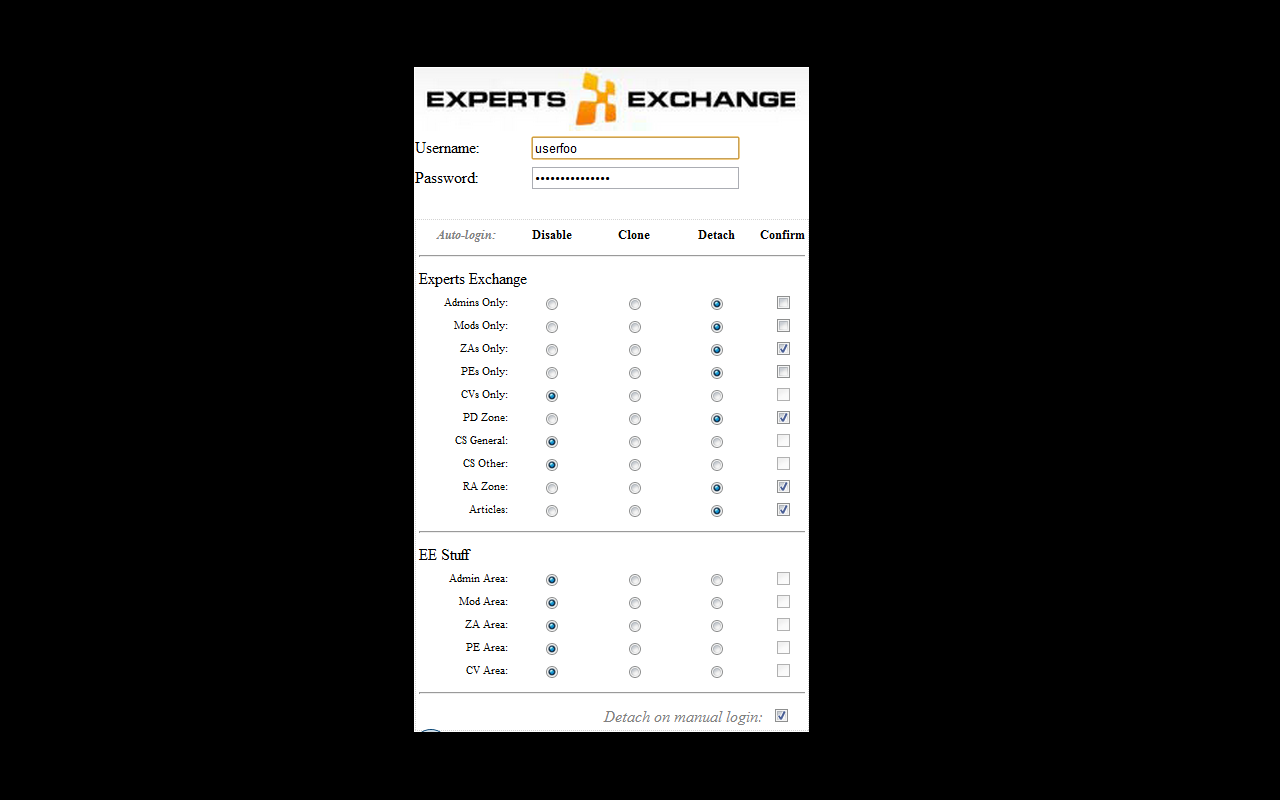
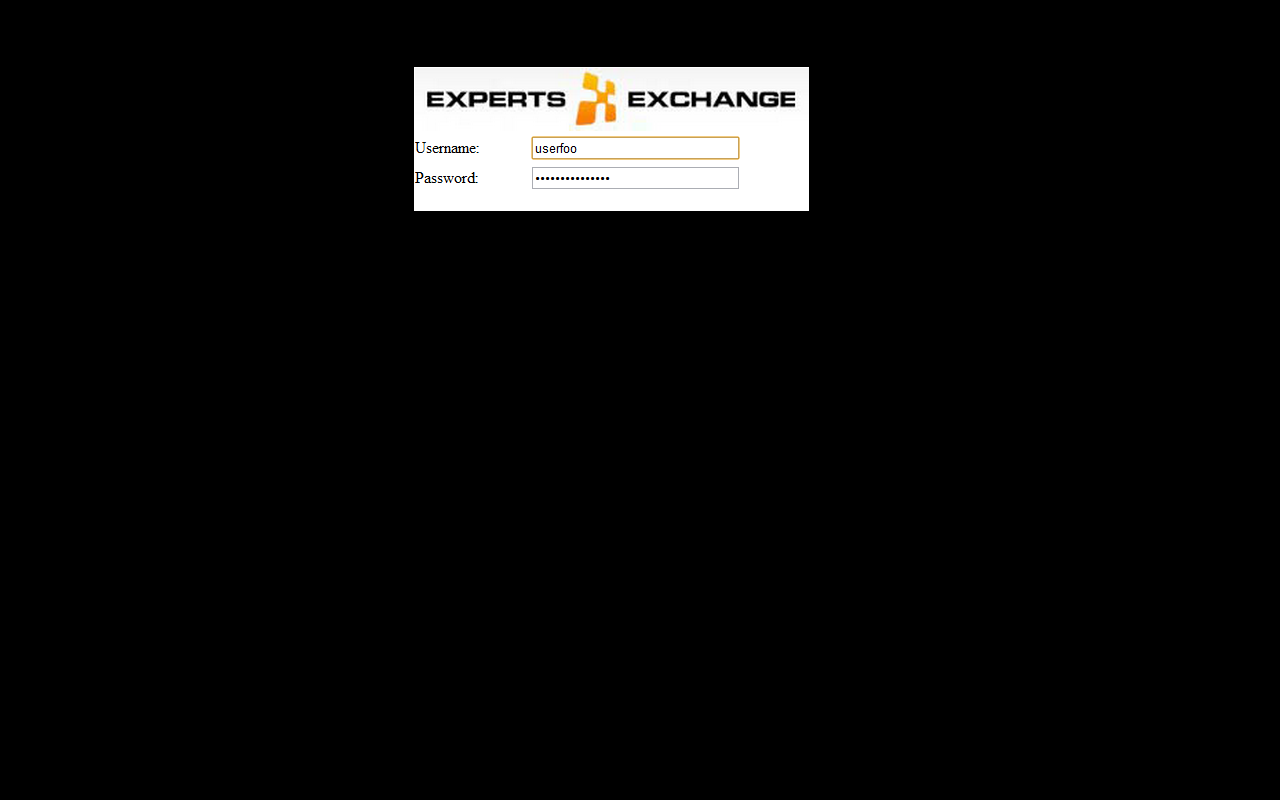
Update for EEv10 plus https

Changed region(s): [[0.3125, 0.25, 0.6562, 0.9375]]

diff --git a/EE Login/options.js b/EE Login/options.js
@@ -1,61 +1,3 @@
-function radio_click_handler(name)
-{
-   var rds = document.getElementsByName(name);
-   var cbname = name + '_cb';
-   var cb = document.getElementById(cbname);
-
-   cb.disabled = rds[0].checked;
-}
-
-function save_radio(name) {
-   var rds = document.getElementsByName(name);
-   var res = 0;
-
-   for(var i = 0 ; i < rds.length ; ++i) {
-      if(rds[i].checked) {
-         res = i;
-      }
-   }
-
-   localStorage[name] = res;
-}
-
-function load_radio(name) {
-   var rds = document.getElementsByName(name);
-
-   if(localStorage["username"])
-   {
-      for(var i = 0 ; i < rds.length ; ++i) {
-         rds[i].checked = (i == localStorage[name]);
-      }
-   }
-   else
-   {
-      rds[0].checked = true;
-   }
-}
-
-function save_cb(name) {
-   var name = name + '_cb';
-   var cb = document.getElementById(name);
-   localStorage[name] = cb.checked?1:0;
-}
-
-function load_cb(name) {
-   var cbname = name + '_cb';
-   var cb = document.getElementById(cbname);
-
-   if(localStorage["username"])
-   {
-      cb.checked = (1 == localStorage[cbname]);
-   }
-   else
-   {
-      cb.checked = false;
-   }
-
-   radio_click_handler(name);
-}
 
 function save_options() {
 
@@ -68,23 +10,11 @@ function save_options() {
    }
    else
    {
-      localStorage["username"] = username;
-      localStorage["password"] = password;
-
-      for(section in re)
-      {
-         for(key in re[section]['regex'][1])
-         {
-            save_radio(key);
-            save_cb(key);
-         }
-      }
-
-      localStorage["detonman"] = document.getElementById("detonman").checked;
-
       // Update status to let user know options were saved.
       var status = document.getElementById("status");
       status.innerHTML = "Saving...";
+      localStorage["username"] = username;
+      localStorage["password"] = password;
       setTimeout(function() {
          status.innerHTML = "";
       }, 750);
@@ -97,53 +27,13 @@ function restore_options() {
    {
       document.getElementById("username").value = localStorage["username"];
       document.getElementById("password").value = localStorage["password"];
-
-
-      document.getElementById("detonman").checked = localStorage["detonman"] == "true";
-   }
-
-   for(section in re)
-   {
-      for(key in re[section]['regex'][1])
-      {
-         load_radio(key);
-         load_cb(key);
-      }
    }
 }
 
-function wl (line)
-{
-   document.write(line);
-}
+document.addEventListener('DOMContentLoaded', function () {
+  document.querySelector('button').addEventListener('click', save_options);
+});
 
-String.prototype.supplant = function (o)
-{
-   return this.replace(/{([^{}]*)}/g,
-         function (a, b) {
-            var r = o[b];
-            return typeof r === 'string' || typeof r === 'number' ? r : a;
-         });
-};
-
-function generate_opts_table()
-{
-   for(section in re)
-   {
-      wl('<tr> <td colspan="5">{section}</td></tr>'.supplant({'section': re[section]['name']}));
-      for(key in re[section]['regex'][1])
-      {
-         wl('<tr> \
-               <td class="hzones"><label class="zones" for= \
-               "{key}">{name}:</label></td> \
-               <td class="zones"><input onclick="radio_click_handler(\'{key}\')" type="radio" name="{key}"></td> \
-               <td class="zones"><input onclick="radio_click_handler(\'{key}\')"  type="radio" name="{key}"></td> \
-               <td class="zones"><input onclick="radio_click_handler(\'{key}\')"  type="radio" name="{key}"></td> \
-               <td class="zones"><input type="checkbox" id="{key}_cb"></td> \
-               </tr>'.supplant({'key': key, 'name': re[section]['regex'][1][key][0]}));
-      }
-
-      wl('<tr> <td colspan="5"><hr></td></tr>');
-   }
-}
-
+document.addEventListener('DOMContentLoaded', function () {
+  restore_options();
+});

diff --git a/EE Login/background.js b/EE Login/background.js
@@ -1,15 +1,15 @@
-chrome.tabs.onUpdated.addListener(onUpdate_handler);
 chrome.pageAction.onClicked.addListener(onClick_handler);
+chrome.tabs.onUpdated.addListener(onUpdate_handler);
 
 function get_redirect_url(tab)
 {
    var url;
 
-   if(re['ee']['regex'][0].test(tab.url))
+   if(re['ee']['regex'].test(tab.url))
    {
       url = "https://secure.experts-exchange.com/login.jsp";
    }
-   else if(re['es']['regex'][0].test(tab.url))
+   else if(re['es']['regex'].test(tab.url))
    {
       url = " http://ee-stuff.com/login.php";
    }
@@ -24,7 +24,7 @@ function get_redirect_url(tab)
    return url;
 }
 
-function handle_login(tab, detach, ask)
+function handle_login(tab)
 {
    if(!localStorage["username"])
    {
@@ -33,35 +33,17 @@ function handle_login(tab, detach, ask)
       return;
    }
 
-   if(ask ? confirm("Go incognito") : true)
-   {
       var url = get_redirect_url(tab);
 
-      if(url)
-      {
-         chrome.windows.create( {
-            'url': url,
-            'incognito': true
-         });
+   if(url)
+   {
+      chrome.windows.create( {
+         'url': url,
+         'incognito': true
+      });
 
-         if(detach)
-         {
-            chrome.tabs.remove(tab.id);
-         }
-      }
+      chrome.tabs.remove(tab.id);
    }
-}
-
-function zone_handler(section, key, tab) {
-   var ret = false
-
-      if(localStorage[key] > 0 && re[section]['regex'][1][key][1].test(tab.url))
-      {
-         handle_login(tab, (localStorage[key] == 2), (localStorage[key + '_cb'] == 1));
-         ret = true;
-      }
-
-   return ret;
 }
 
 function onUpdate_handler(tabId, changeInfo, tab) {
@@ -73,29 +55,13 @@ function onUpdate_handler(tabId, changeInfo, tab) {
 
       } else {
 
-         var section;
-
-         if(re['ee']['regex'][0].test(tab.url)) {
+         if(re['ee']['regex'].test(tab.url)) {
 
             chrome.pageAction.show(tabId);
-            section = 'ee';
          }
-         else if(re['es']['regex'][0].test(tab.url)) {
+         else if(re['es']['regex'].test(tab.url)) {
 
             chrome.pageAction.show(tabId);
-            section = 'es';
-         }
-         else
-         {
-            return;
-         }
-
-         for(key in re[section]['regex'][1])
-         {
-            if(zone_handler(section, key, tab))
-            {
-               break;
-            }
          }
       }
    }
@@ -105,4 +71,3 @@ function onClick_handler(tab) {
 
    handle_login(tab, localStorage["detonman"] == "true");
 }
-

diff --git a/EE Login/data.js b/EE Login/data.js
@@ -1,28 +1,13 @@
 var re =
 {
-   'ee': { 'name': 'Experts Exchange', 'regex': [
-      /^http:\/\/[^.]+\.experts-exchange\.com\//,
-      {
-         'eead': [ 'Admins&nbsp;Only', /^http:\/\/[^.]+\.experts-exchange\.com\/Community_Support\/Hidden\/Admin_Only\// ],
-         'eemd': [ 'Mods&nbsp;Only', /^http:\/\/[^.]+\.experts-exchange\.com\/Community_Support\/Hidden\/Mods_Only\// ],
-         'eeza': [ 'ZAs&nbsp;Only', /^http:\/\/[^.]+\.experts-exchange\.com\/Community_Support\/Hidden\/Admin_Mod_ZA_Only\// ],
-         'eepe': [ 'PEs&nbsp;Only', /^http:\/\/[^.]+\.experts-exchange\.com\/Community_Support\/Hidden\/(?:PE_Adm|Admin_Mod_PE_Only)\// ],
-         'eecv': [ 'CVs&nbsp;Only', /^http:\/\/[^.]+\.experts-exchange\.com\/Community_Support\/Hidden\/CV_Admin\// ],
-         'eepd': [ 'PD&nbsp;Zone', /^http:\/\/[^.]+\.experts-exchange\.com\/Community_Support\/Hidden\/Private_Discussions\// ],
-         'eecg': [ 'CS&nbsp;General', /^http:\/\/[^.]+\.experts-exchange\.com\/Community_Support\/General\// ],
-         'eecs': [ 'CS&nbsp;Other', /^http:\/\/[^.]+\.experts-exchange\.com\/Community_Support\/Hidden\/(?!Admin_Only|Mods_Only|Admin_Mod_ZA_Only|Admin_Mod_PE_Only|Private_Discussions|CV_Admin)\// ],
-         'eera': [ 'RA&nbsp;Zone', /^http:\/\/[^.]+\.experts-exchange\.com\/R_\d+\.html$/ ],
-         'eear': [ 'Articles', /^http:\/\/[^.]+\.experts-exchange\.com\/.+\/A_.+\.html$/ ]
-      } ] },
-   'es': { 'name': 'EE Stuff', 'regex': [
-      /^http:\/\/(?:[^.]+\.)?ee-stuff\.com\/?/,
-      {
-         'esad': [ 'Admin Area', /^http:\/\/(?:[^.]+\.)?ee-stuff\.com\/Admin\// ],
-         'esmd': [ 'Mod Area', /^http:\/\/(?:[^.]+\.)?ee-stuff\.com\/Mod\// ],
-         'esza': [ 'ZA Area', /^http:\/\/(?:[^.]+\.)?ee-stuff\.com\/ZA\// ],
-         'espe': [ 'PE Area', /^http:\/\/(?:[^.]+\.)?ee-stuff\.com\/PE\// ],
-         'escv': [ 'CV Area', /^http:\/\/(?:[^.]+\.)?ee-stuff\.com\/CV\// ]
-      } ] }
+   'ee': {
+      'name': 'Experts Exchange',
+      'regex': /^https?:\/\/[^.]+\.experts-exchange\.com\//,
+      },
+   'es': {
+      'name': 'EE Stuff',
+      'regex': /^http:\/\/(?:[^.]+\.)?ee-stuff\.com\/?/
+      }
 };
 
 var urlRe = /^https?:\/\/[^/]+/

diff --git a/EE Login/options.html b/EE Login/options.html
@@ -33,62 +33,11 @@
          </tr>
 
          <tr>
-            <td colspan="2"><br></td>
-         </tr>
-
-         <tr>
-            <td colspan="2">
-               <table summary="" style=
-                  "border: 1px dotted lightgray;width: 100%;">
-                  <tr>
-                     <td colspan="5"></td>
-                  </tr>
-
-                  <tr>
-                     <th class="hzones"><span class="zones" title=
-                           "Select the zones will automatically open a new window and login.">
-                           Auto-login:</span></th>
-
-                     <th class="zones">Disable</th>
-
-                     <th class="zones">Clone</th>
-
-                     <th class="zones">Detach</th>
-
-                     <th class="zones">Confirm</th>
-                  </tr>
-
-                  <tr>
-                     <td colspan="5">
-                        <hr>
-                     </td>
-                  </tr>
-
-                  <script type="text/javascript"> generate_opts_table(); </script>
-
-                  <tr>
-                     <td colspan="5" style=
-                        "text-align:right;padding-right:15px;">
-                        <label for="detonman"><span class=
-                              "zones">Detach&nbsp;on&nbsp;manual
-                              login:&nbsp;</span></label> <input type=
-                        "checkbox" id="detonman"></td>
-                  </tr>
-               </table>
-            </td>
-         </tr>
-
-         <tr>
-            <td colspan="2"><br></td>
-         </tr>
-
-         <tr>
             <td>
                <div id="status" style="color:red;"></div>
             </td>
 
-            <td style="text-align:right"><button onclick=
-                  "save_options()" title="Save settings.">Save</button></td>
+            <td style="text-align:right"><button title="Save settings.">Save</button></td>
          </tr>
       </table>
    </body>
